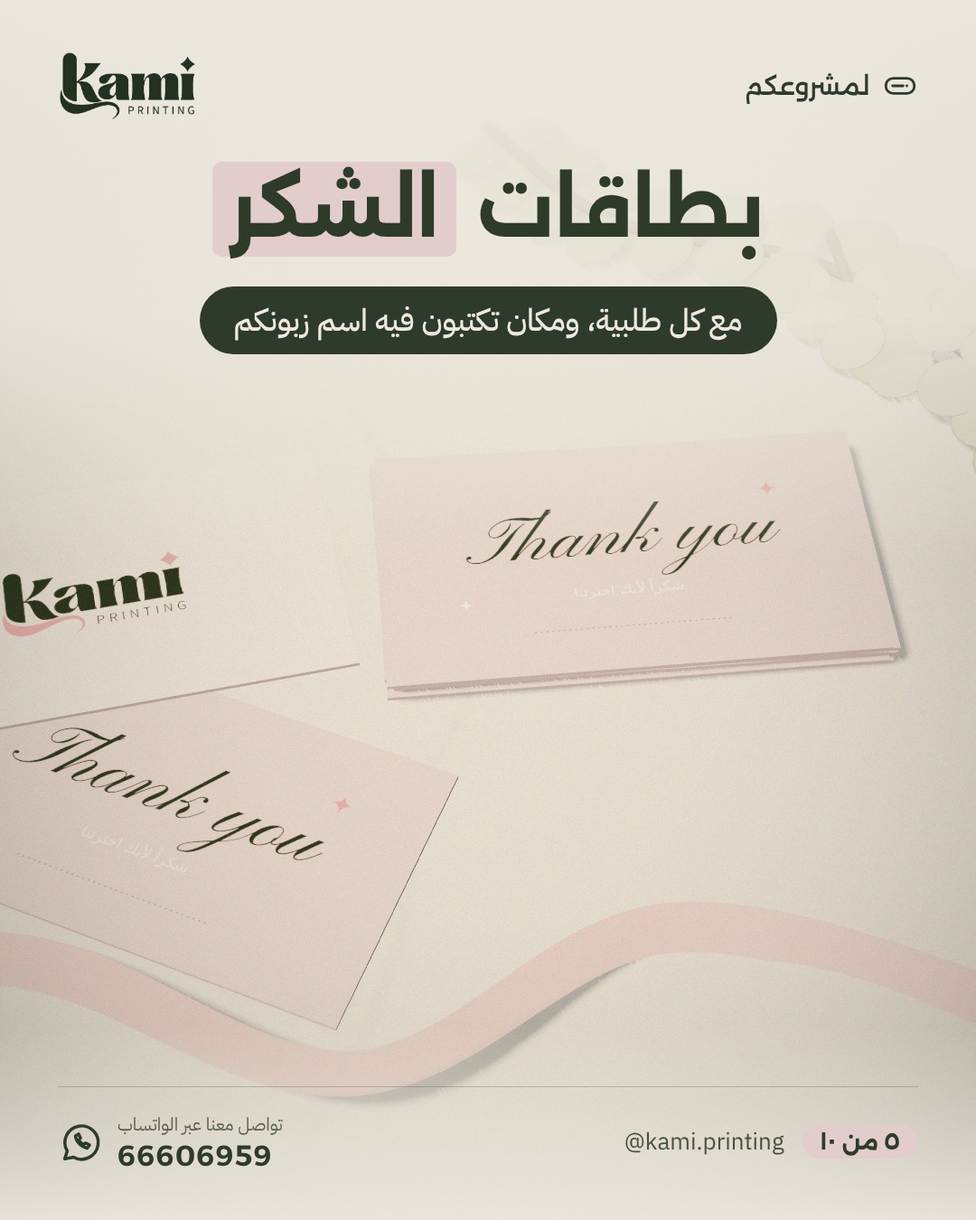
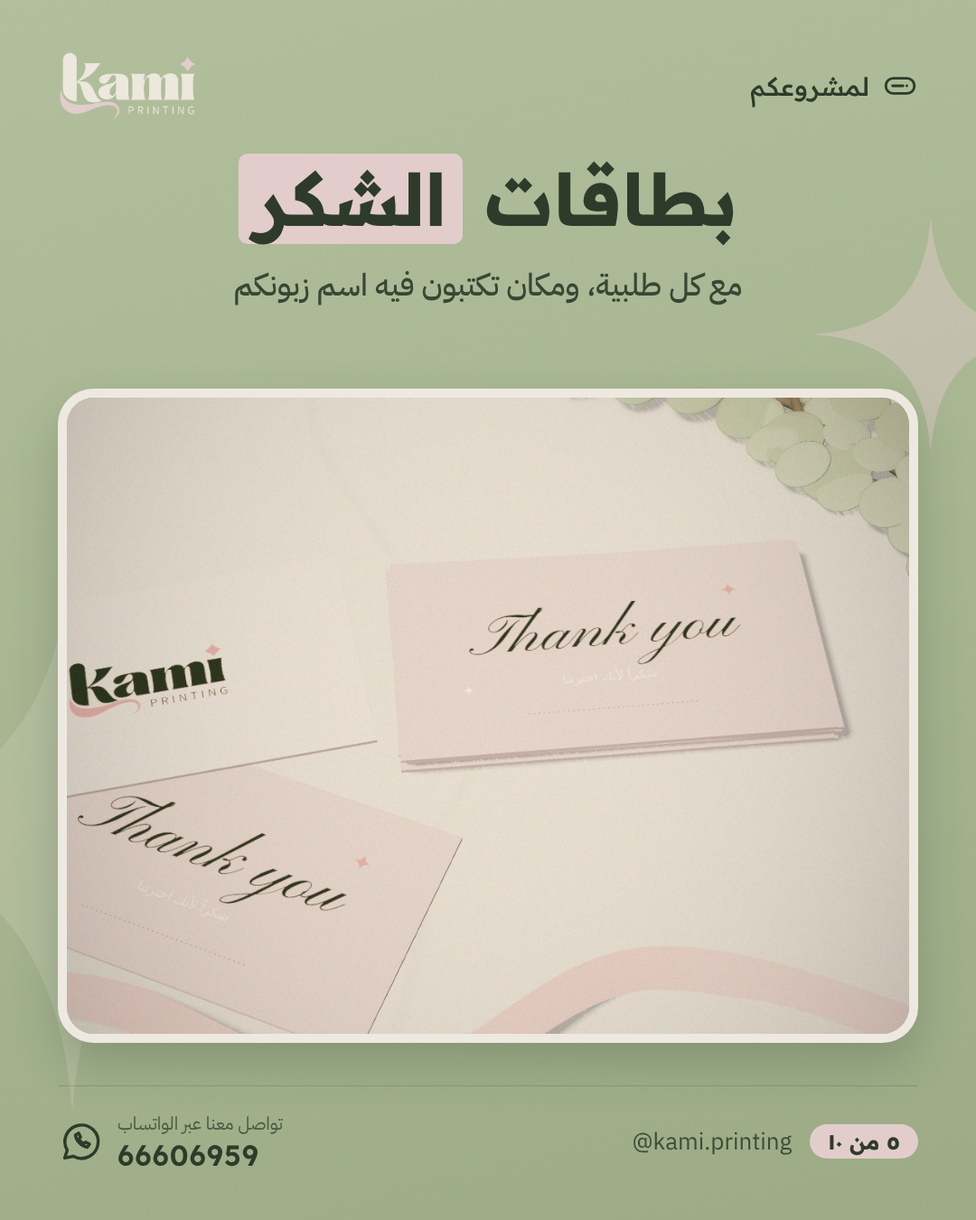
Restyle packaging carousel to the local design-index theme
Claude-Session: https://claude.ai/code/session_01EDga3H3JwjYFACotr7MsqH

diff --git a/templates/packaging-carousel.html b/templates/packaging-carousel.html
@@ -1,5 +1,5 @@
 <!doctype html><html lang="ar" dir="rtl"><head><meta charset="utf-8"><title>Kami Packaging Carousel</title>
-<link href="https://fonts.googleapis.com/css2?family=Alexandria:wght@400;500;600;700&family=IBM+Plex+Sans+Arabic:wght@400;500;600&display=swap" rel="stylesheet">
+<link href="https://fonts.googleapis.com/css2?family=Readex+Pro:wght@500;600;700&family=Alexandria:wght@400;500;600;700&family=IBM+Plex+Sans+Arabic:wght@400;500;600&display=swap" rel="stylesheet">
 <style>
 :root{--sage:#A7B591;--cream:#EDE9E0;--blush:#E2CDCC;--forest:#2E3B2A;--forest2:#384833;--line:rgba(46,59,42,.2)}
 *{box-sizing:border-box;margin:0;padding:0}
@@ -82,24 +82,19 @@ h2.ent{font-size:52px}
 .wai{width:64px;height:64px;fill:none;stroke:var(--cream);stroke-width:1.6;stroke-linecap:round;stroke-linejoin:round}
 .ctalogo{width:230px;margin-top:70px;opacity:.95}
 
-.ph{background:var(--img) center/cover}
-.ph header img{filter:brightness(0) saturate(100%) invert(19%) sepia(10%) saturate(1200%) hue-rotate(60deg) brightness(.9)}
-.ph .scrim{position:absolute;inset:0;pointer-events:none}
-.ph.top .scrim{background:linear-gradient(180deg,rgba(237,233,224,.96) 0%,rgba(237,233,224,.82) 26%,rgba(237,233,224,0) 46%),linear-gradient(0deg,rgba(237,233,224,.9) 0%,rgba(237,233,224,0) 16%)}
-.ph.bottom .scrim{background:linear-gradient(180deg,rgba(237,233,224,.85) 0%,rgba(237,233,224,0) 14%),linear-gradient(0deg,rgba(237,233,224,.97) 0%,rgba(237,233,224,.85) 28%,rgba(237,233,224,0) 48%)}
-.ph .txt{position:absolute;left:64px;right:64px;text-align:center;display:flex;flex-direction:column;align-items:center}
-.ph.top .txt{top:170px}.ph.bottom .txt{bottom:190px}
-.ph h2{font-size:86px;margin:0}
-.ph .cap{margin-top:22px;background:var(--forest);color:var(--cream);font-size:34px;font-weight:500;padding:12px 38px;border-radius:50px}
-.ph footer{border-top-color:rgba(46,59,42,.25)}
-.cov .tint{position:absolute;inset:0;background:linear-gradient(180deg,rgba(46,59,42,.55),rgba(46,59,42,.35) 45%,rgba(46,59,42,.7));}
-.cov header img{filter:none}.cov .chip{color:var(--cream)}.cov .chip svg{stroke:var(--cream)}
-.cov main{color:var(--cream)}.cov .t-cover{font-size:96px;color:var(--cream);text-shadow:0 4px 30px rgba(0,0,0,.25)}
-.cov .hl{color:var(--forest)}.cov .sub{color:var(--cream);opacity:1}
-.cov .spark{width:90px;height:90px;fill:var(--blush);margin-bottom:30px}
-.cov .swipe,.cov .swipe svg{color:var(--cream);stroke:var(--cream)}
-.cov footer{border-top-color:rgba(237,233,224,.4)}.cov footer,.cov .fw b{color:var(--cream)}.cov .fwi{stroke:var(--cream)}
-.cov .fr .h{color:var(--cream)}
+.post{background:linear-gradient(165deg,#B2BF9D 0%,#A7B591 50%,#9CAB86 100%)}
+h1,h2,.t-cover,.t-cta,.ftt,.kicker,.chip,.pill,.cnt,.fw b,.gh,.q,.sn,.wa span{font-family:'Readex Pro','IBM Plex Sans Arabic',sans-serif!important}
+h1,h2{font-weight:700}
+.ph .txt{position:absolute;left:64px;right:64px;top:168px;text-align:center;display:flex;flex-direction:column;align-items:center}
+.ph h2{font-size:80px;margin:0;line-height:1.3}
+.ph.cov h1{font-size:78px;margin:0;line-height:1.35}
+.ph .cap{margin-top:18px;color:#394634;font-size:34px;font-weight:500}
+.frame{position:absolute;left:64px;right:64px;top:430px;bottom:196px;border-radius:40px;overflow:hidden;
+  border:10px solid var(--cream);box-shadow:0 24px 50px rgba(46,59,42,.22)}
+.frame img{width:100%;height:100%;object-fit:cover;display:block}
+.cov .frame{top:520px;bottom:250px}
+.cov .swipe{position:absolute;left:64px;bottom:190px;display:flex;align-items:center;gap:6px;font-family:'Readex Pro';font-size:28px;color:var(--forest);direction:rtl}
+.cov .swipe svg{width:120px;height:50px;fill:none;stroke:var(--forest);stroke-width:3.5;stroke-linecap:round;stroke-linejoin:round}
 .stk .mas svg{width:520px}
 </style></head><body><svg width="0" height="0" style="position:absolute"><defs>
 <symbol id="star" viewBox="0 0 40 40"><path d="M20 0C21 13 27 19 40 20C27 21 21 27 20 40C19 27 13 21 0 20C13 19 19 13 20 0Z"/></symbol>
@@ -125,42 +120,39 @@ h2.ent{font-size:52px}
 <symbol id="truck" viewBox="0 0 24 24"><path d="M2 6h12v10H2zM14 9h4l3 3v4h-7"/><circle cx="6" cy="17.5" r="1.8"/><circle cx="17" cy="17.5" r="1.8"/></symbol>
 <symbol id="wa" viewBox="0 0 24 24"><path d="M3.5 20.5l1.3-4A8.5 8.5 0 1 1 8 19.6z"/><path d="M9 8.8c.3 2.8 2.6 5.4 6 6.2l1.2-1.6-2-1-1 .8c-1-.5-2-1.5-2.4-2.4l.8-1-1-2z"/></symbol>
 </defs></svg>
-<section class="post ph cov" id="pack-01" style="--img:url(photos/packaging/unbox.jpg)">
-  <div class="tint"></div><header><img src="../brand/logo-en-cream.png"><div class="chip"><svg class="ic"><use href="#tag"/></svg><span>لمشروعكم</span></div></header>
-  <main><svg class="spark"><use href="#star"/></svg>
-  <h1 class="t-cover">مشروعكم يحتاج<br><span class="hl">هالمطبوعات</span></h1>
-  <div class="sub">تفاصيل صغيرة.. تخلي طلبياتكم أفخم</div>
-  <div class="swipe">اسحبوا<svg viewBox="0 0 120 50"><path d="M110 10 C80 40 40 40 12 26"/><path d="M26 14 L10 26 L28 36"/></svg></div></main>
+<section class="post ph cov" id="pack-01"><svg class="wm"><use href="#star"/></svg><svg class="wm2"><use href="#star"/></svg><header><img src="../brand/logo-en-cream.png"><div class="chip"><svg class="ic"><use href="#tag"/></svg><span>لمشروعكم</span></div></header>
+  <div class="txt"><h1>مشروعكم يحتاج<br><span class="hl">هالمطبوعات</span></h1><div class="cap">تفاصيل صغيرة.. تخلي طلبياتكم أفخم</div></div>
+  <div class="frame"><img src="photos/packaging/unbox-wide.jpg" style="object-position:50% 50%"></div>
+  <div class="swipe">اسحبوا<svg viewBox="0 0 120 50"><path d="M110 10 C80 40 40 40 12 26"/><path d="M26 14 L10 26 L28 36"/></svg></div>
   <footer><div class="fw"><svg class="fwi"><use href="#wa"/></svg><div><small>تواصل معنا عبر الواتساب</small><b>66606959</b></div></div>
-  <div class="fr"><span class="h">@kami.printing</span><span class="cnt">١ من ١٠</span></div></footer></section><section class="post stk" id="pack-02">
-  <svg class="wm"><use href="#star"/></svg><svg class="wm2"><use href="#star"/></svg><header><img src="../brand/logo-en-cream.png"><div class="chip"><svg class="ic"><use href="#tag"/></svg><span>لمشروعكم</span></div></header>
+  <div class="fr"><span class="h">@kami.printing</span><span class="cnt">١ من ١٠</span></div></footer></section><section class="post stk" id="pack-02"><svg class="wm"><use href="#star"/></svg><svg class="wm2"><use href="#star"/></svg><header><img src="../brand/logo-en-cream.png"><div class="chip"><svg class="ic"><use href="#tag"/></svg><span>لمشروعكم</span></div></header>
   <main><div class="mas"><svg class="mascot" viewBox="-80 0 420 360"><ellipse cx="150" cy="330" rx="88" ry="10" fill="#2E3B2A" opacity=".14"/><path d="M124 292 L120 318" fill="none" stroke="#2E3B2A" stroke-width="9" stroke-linecap="round"/><path d="M176 292 L180 318" fill="none" stroke="#2E3B2A" stroke-width="9" stroke-linecap="round"/><ellipse cx="114" cy="321" rx="17" ry="9" fill="#2E3B2A"/><ellipse cx="186" cy="321" rx="17" ry="9" fill="#2E3B2A"/><path d="M70 112 L112 62 H188 L230 112 V280 Q230 296 214 296 H86 Q70 296 70 280 Z" fill="#F6F3EC" stroke="#2E3B2A" stroke-width="8" stroke-linejoin="round"/><path d="M70 112 L112 62 V98 Q112 112 98 112 Z" fill="#E2CDCC" stroke="#2E3B2A" stroke-width="7" stroke-linejoin="round"/><path d="M230 112 L188 62 V98 Q188 112 202 112 Z" fill="#E2CDCC" stroke="#2E3B2A" stroke-width="7" stroke-linejoin="round"/><path d="M74 250 C118 282 170 226 226 238" fill="none" stroke="#E2CDCC" stroke-width="15" stroke-linecap="round"/><ellipse cx="122" cy="172" rx="10" ry="12" fill="#2E3B2A"/><ellipse cx="178" cy="172" rx="10" ry="12" fill="#2E3B2A"/><circle cx="125" cy="167" r="3.5" fill="#fff"/><circle cx="181" cy="167" r="3.5" fill="#fff"/><ellipse cx="104" cy="198" rx="13" ry="8" fill="#D3959B" opacity=".55"/><ellipse cx="196" cy="198" rx="13" ry="8" fill="#D3959B" opacity=".55"/><path d="M134 196 Q150 220 166 196 Z" fill="#2E3B2A" stroke="#2E3B2A" stroke-width="5" stroke-linejoin="round"/><path d="M142 206 Q150 214 158 206" fill="#D3959B"/><rect x="104" y="228" width="92" height="66" rx="6" fill="#E2CDCC" stroke="#2E3B2A" stroke-width="7"/><rect x="98" y="214" width="104" height="20" rx="5" fill="#F6F3EC" stroke="#2E3B2A" stroke-width="7"/><path d="M150 214 V294" stroke="#A7B591" stroke-width="12"/><path d="M150 214 c-14 -26 -40 -18 -26 -2 M150 214 c14 -26 40 -18 26 -2" fill="none" stroke="#2E3B2A" stroke-width="6" stroke-linecap="round"/><path d="M74 215 C80 236 90 248 100 252" fill="none" stroke="#2E3B2A" stroke-width="9" stroke-linecap="round"/><circle cx="102" cy="254" r="12" fill="#F6F3EC" stroke="#2E3B2A" stroke-width="7"/><path d="M226 215 C220 236 210 248 200 252" fill="none" stroke="#2E3B2A" stroke-width="9" stroke-linecap="round"/><circle cx="198" cy="254" r="12" fill="#F6F3EC" stroke="#2E3B2A" stroke-width="7"/><path d="M0 -20C1 -7 7 -1 20 0C7 1 1 7 0 20C-1 7 -7 1 -20 0C-7 -1 -1 -7 0 -20Z" transform="translate(262 46) scale(1.25)" fill="#D3959B"/><path d="M0 -20C1 -7 7 -1 20 0C7 1 1 7 0 20C-1 7 -7 1 -20 0C-7 -1 -1 -7 0 -20Z" transform="translate(36 92) scale(0.7)" fill="#A7B591"/></svg></div>
   <h1 class="t-cover">أول شي يشوفه زبونكم..<br><span class="hl">التغليف</span></h1>
   <div class="sub">قبل لا يجرّب منتجكم، يحكم عليه من شكله</div></main>
   <footer><div class="fw"><svg class="fwi"><use href="#wa"/></svg><div><small>تواصل معنا عبر الواتساب</small><b>66606959</b></div></div>
-  <div class="fr"><span class="h">@kami.printing</span><span class="cnt">٢ من ١٠</span></div></footer></section><section class="post ph top" id="pack-03" style="--img:url(photos/packaging/logo-stickers.jpg)">
-  <div class="scrim"></div><header><img src="../brand/logo-en-cream.png"><div class="chip"><svg class="ic"><use href="#tag"/></svg><span>لمشروعكم</span></div></header>
+  <div class="fr"><span class="h">@kami.printing</span><span class="cnt">٢ من ١٠</span></div></footer></section><section class="post ph" id="pack-03"><svg class="wm"><use href="#star"/></svg><svg class="wm2"><use href="#star"/></svg><header><img src="../brand/logo-en-cream.png"><div class="chip"><svg class="ic"><use href="#tag"/></svg><span>لمشروعكم</span></div></header>
   <div class="txt"><h2>ستيكرات <span class="hl">الشعار</span></h2><div class="cap">بقص احترافي، تختمون فيها كل كيس وعلبة</div></div>
+  <div class="frame"><img src="photos/packaging/logo-stickers-wide.jpg" style="object-position:50% 60%"></div>
   <footer><div class="fw"><svg class="fwi"><use href="#wa"/></svg><div><small>تواصل معنا عبر الواتساب</small><b>66606959</b></div></div>
-  <div class="fr"><span class="h">@kami.printing</span><span class="cnt">٣ من ١٠</span></div></footer></section><section class="post ph bottom" id="pack-04" style="--img:url(photos/packaging/uv-stickers.jpg)">
-  <div class="scrim"></div><header><img src="../brand/logo-en-cream.png"><div class="chip"><svg class="ic"><use href="#tag"/></svg><span>لمشروعكم</span></div></header>
+  <div class="fr"><span class="h">@kami.printing</span><span class="cnt">٣ من ١٠</span></div></footer></section><section class="post ph" id="pack-04"><svg class="wm"><use href="#star"/></svg><svg class="wm2"><use href="#star"/></svg><header><img src="../brand/logo-en-cream.png"><div class="chip"><svg class="ic"><use href="#tag"/></svg><span>لمشروعكم</span></div></header>
   <div class="txt"><h2>ستيكرات <span class="hl">UV</span></h2><div class="cap">لمعة بارزة تعطي منتجكم طابع فخم</div></div>
+  <div class="frame"><img src="photos/packaging/uv-stickers-wide.jpg" style="object-position:50% 55%"></div>
   <footer><div class="fw"><svg class="fwi"><use href="#wa"/></svg><div><small>تواصل معنا عبر الواتساب</small><b>66606959</b></div></div>
-  <div class="fr"><span class="h">@kami.printing</span><span class="cnt">٤ من ١٠</span></div></footer></section><section class="post ph top" id="pack-05" style="--img:url(photos/packaging/thank-cards.jpg)">
-  <div class="scrim"></div><header><img src="../brand/logo-en-cream.png"><div class="chip"><svg class="ic"><use href="#tag"/></svg><span>لمشروعكم</span></div></header>
+  <div class="fr"><span class="h">@kami.printing</span><span class="cnt">٤ من ١٠</span></div></footer></section><section class="post ph" id="pack-05"><svg class="wm"><use href="#star"/></svg><svg class="wm2"><use href="#star"/></svg><header><img src="../brand/logo-en-cream.png"><div class="chip"><svg class="ic"><use href="#tag"/></svg><span>لمشروعكم</span></div></header>
   <div class="txt"><h2>بطاقات <span class="hl">الشكر</span></h2><div class="cap">مع كل طلبية، ومكان تكتبون فيه اسم زبونكم</div></div>
+  <div class="frame"><img src="photos/packaging/thank-cards.jpg" style="object-position:50% 55%"></div>
   <footer><div class="fw"><svg class="fwi"><use href="#wa"/></svg><div><small>تواصل معنا عبر الواتساب</small><b>66606959</b></div></div>
-  <div class="fr"><span class="h">@kami.printing</span><span class="cnt">٥ من ١٠</span></div></footer></section><section class="post ph top" id="pack-06" style="--img:url(photos/packaging/business-cards.jpg)">
-  <div class="scrim"></div><header><img src="../brand/logo-en-cream.png"><div class="chip"><svg class="ic"><use href="#tag"/></svg><span>لمشروعكم</span></div></header>
-  <div class="txt"><h2><span class="hl">بزنس كارد</span></h2><div class="cap">حساباتكم ورقمكم في يد زبونكم دايماً</div></div>
+  <div class="fr"><span class="h">@kami.printing</span><span class="cnt">٥ من ١٠</span></div></footer></section><section class="post ph" id="pack-06"><svg class="wm"><use href="#star"/></svg><svg class="wm2"><use href="#star"/></svg><header><img src="../brand/logo-en-cream.png"><div class="chip"><svg class="ic"><use href="#tag"/></svg><span>لمشروعكم</span></div></header>
+  <div class="txt"><h2><span class="hl">بزنس كارد</span></h2><div class="cap">حساباتكم ورقمكم بيد زبونكم دايماً</div></div>
+  <div class="frame"><img src="photos/packaging/business-cards.jpg" style="object-position:50% 50%"></div>
   <footer><div class="fw"><svg class="fwi"><use href="#wa"/></svg><div><small>تواصل معنا عبر الواتساب</small><b>66606959</b></div></div>
-  <div class="fr"><span class="h">@kami.printing</span><span class="cnt">٦ من ١٠</span></div></footer></section><section class="post ph bottom" id="pack-07" style="--img:url(photos/packaging/cotton-labels.jpg)">
-  <div class="scrim"></div><header><img src="../brand/logo-en-cream.png"><div class="chip"><svg class="ic"><use href="#tag"/></svg><span>لمشروعكم</span></div></header>
+  <div class="fr"><span class="h">@kami.printing</span><span class="cnt">٦ من ١٠</span></div></footer></section><section class="post ph" id="pack-07"><svg class="wm"><use href="#star"/></svg><svg class="wm2"><use href="#star"/></svg><header><img src="../brand/logo-en-cream.png"><div class="chip"><svg class="ic"><use href="#tag"/></svg><span>لمشروعكم</span></div></header>
   <div class="txt"><h2>قصاصات <span class="hl">قطنية</span></h2><div class="cap">لمسة أنيقة لمشاريع الملابس والإكسسوارات</div></div>
+  <div class="frame"><img src="photos/packaging/cotton-labels.jpg" style="object-position:50% 40%"></div>
   <footer><div class="fw"><svg class="fwi"><use href="#wa"/></svg><div><small>تواصل معنا عبر الواتساب</small><b>66606959</b></div></div>
-  <div class="fr"><span class="h">@kami.printing</span><span class="cnt">٧ من ١٠</span></div></footer></section><section class="post ph top" id="pack-08" style="--img:url(photos/packaging/folding-boxes.jpg)">
-  <div class="scrim"></div><header><img src="../brand/logo-en-cream.png"><div class="chip"><svg class="ic"><use href="#tag"/></svg><span>لمشروعكم</span></div></header>
+  <div class="fr"><span class="h">@kami.printing</span><span class="cnt">٧ من ١٠</span></div></footer></section><section class="post ph" id="pack-08"><svg class="wm"><use href="#star"/></svg><svg class="wm2"><use href="#star"/></svg><header><img src="../brand/logo-en-cream.png"><div class="chip"><svg class="ic"><use href="#tag"/></svg><span>لمشروعكم</span></div></header>
   <div class="txt"><h2>علب <span class="hl">مطوية</span></h2><div class="cap">تغليف يعطي كل منتج تبيعونه طابع فخم</div></div>
+  <div class="frame"><img src="photos/packaging/folding-boxes.jpg" style="object-position:50% 50%"></div>
   <footer><div class="fw"><svg class="fwi"><use href="#wa"/></svg><div><small>تواصل معنا عبر الواتساب</small><b>66606959</b></div></div>
   <div class="fr"><span class="h">@kami.printing</span><span class="cnt">٨ من ١٠</span></div></footer></section><section class="post grid" id="pack-09">
   <svg class="wm"><use href="#star"/></svg><svg class="wm2"><use href="#star"/></svg>

diff --git a/templates/packaging_carousel.py b/templates/packaging_carousel.py
@@ -16,14 +16,18 @@ os.chdir(cwd)
 hl, icon, ar, slide, mascot = ns['hl'], ns['icon'], ns['ar'], ns['slide'], ns['mascot']
 TAG, TAGIC = 'لمشروعكم', 'tag'
 
-# (photo, title, sub, text position: top|bottom)
+# Theme from the local design index (فهرس-التصاميم.md): sage gradient #B2BF9D -> #9CAB86 with two
+# four-point stars, Readex Pro 700 headings, IBM Plex Sans Arabic body, #2E3B2A text, #394634 secondary,
+# cream #EDE9E0, blush highlight #E2CDCC. Logo top-left, section title top-right, footer with page count.
+# Note from the index: avoid «في» in Readex headings (the ي loses its dots).
+# (photo file, title, sub, object-position)
 PHOTOS = [
-    ('logo-stickers', 'ستيكرات [[الشعار]]', 'بقص احترافي، تختمون فيها كل كيس وعلبة', 'top'),
-    ('uv-stickers', 'ستيكرات [[UV]]', 'لمعة بارزة تعطي منتجكم طابع فخم', 'bottom'),
-    ('thank-cards', 'بطاقات [[الشكر]]', 'مع كل طلبية، ومكان تكتبون فيه اسم زبونكم', 'top'),
-    ('business-cards', '[[بزنس كارد]]', 'حساباتكم ورقمكم في يد زبونكم دايماً', 'top'),
-    ('cotton-labels', 'قصاصات [[قطنية]]', 'لمسة أنيقة لمشاريع الملابس والإكسسوارات', 'bottom'),
-    ('folding-boxes', 'علب [[مطوية]]', 'تغليف يعطي كل منتج تبيعونه طابع فخم', 'top'),
+    ('logo-stickers-wide', 'ستيكرات [[الشعار]]', 'بقص احترافي، تختمون فيها كل كيس وعلبة', '50% 60%'),
+    ('uv-stickers-wide', 'ستيكرات [[UV]]', 'لمعة بارزة تعطي منتجكم طابع فخم', '50% 55%'),
+    ('thank-cards', 'بطاقات [[الشكر]]', 'مع كل طلبية، ومكان تكتبون فيه اسم زبونكم', '50% 55%'),
+    ('business-cards', '[[بزنس كارد]]', 'حساباتكم ورقمكم بيد زبونكم دايماً', '50% 50%'),
+    ('cotton-labels', 'قصاصات [[قطنية]]', 'لمسة أنيقة لمشاريع الملابس والإكسسوارات', '50% 40%'),
+    ('folding-boxes', 'علب [[مطوية]]', 'تغليف يعطي كل منتج تبيعونه طابع فخم', '50% 50%'),
 ]
 N = 3 + len(PHOTOS) + 1
 
@@ -34,48 +38,45 @@ def foot(i):
     return f'''<footer><div class="fw">{icon("wa", "fwi")}<div><small>تواصل معنا عبر الواتساب</small><b>66606959</b></div></div>
   <div class="fr"><span class="h">@kami.printing</span><span class="cnt">{ar(i)} من {ar(N)}</span></div></footer>'''
 
+STARS = '<svg class="wm"><use href="#star"/></svg><svg class="wm2"><use href="#star"/></svg>'
+
+def frame(src, pos):
+    return f'<div class="frame"><img src="photos/packaging/{src}.jpg" style="object-position:{pos}"></div>'
+
 def cover(i):
-    return f'''<section class="post ph cov" id="pack-{i:02d}" style="--img:url(photos/packaging/unbox.jpg)">
-  <div class="tint"></div>{head()}
-  <main><svg class="spark"><use href="#star"/></svg>
-  <h1 class="t-cover">مشروعكم يحتاج<br>[[هالمطبوعات]]</h1>
-  <div class="sub">تفاصيل صغيرة.. تخلي طلبياتكم أفخم</div>
-  <div class="swipe">اسحبوا<svg viewBox="0 0 120 50"><path d="M110 10 C80 40 40 40 12 26"/><path d="M26 14 L10 26 L28 36"/></svg></div></main>
-  {foot(i)}</section>'''.replace('[[هالمطبوعات]]', '<span class="hl">هالمطبوعات</span>')
+    return f'''<section class="post ph cov" id="pack-{i:02d}">{STARS}{head()}
+  <div class="txt"><h1>مشروعكم يحتاج<br>{hl("[[هالمطبوعات]]")}</h1><div class="cap">تفاصيل صغيرة.. تخلي طلبياتكم أفخم</div></div>
+  {frame("unbox-wide", "50% 50%")}
+  <div class="swipe">اسحبوا<svg viewBox="0 0 120 50"><path d="M110 10 C80 40 40 40 12 26"/><path d="M26 14 L10 26 L28 36"/></svg></div>
+  {foot(i)}</section>'''
 
 def stake(i):
-    return f'''<section class="post stk" id="pack-{i:02d}">
-  <svg class="wm"><use href="#star"/></svg><svg class="wm2"><use href="#star"/></svg>{head()}
+    return f'''<section class="post stk" id="pack-{i:02d}">{STARS}{head()}
   <main><div class="mas">{mascot("gift", "open")}</div>
   <h1 class="t-cover">أول شي يشوفه زبونكم..<br>{hl("[[التغليف]]")}</h1>
   <div class="sub">قبل لا يجرّب منتجكم، يحكم عليه من شكله</div></main>
   {foot(i)}</section>'''
 
 def photo(i, name, title, sub, pos):
-    return f'''<section class="post ph {pos}" id="pack-{i:02d}" style="--img:url(photos/packaging/{name}.jpg)">
-  <div class="scrim"></div>{head()}
+    return f'''<section class="post ph" id="pack-{i:02d}">{STARS}{head()}
   <div class="txt"><h2>{hl(title)}</h2><div class="cap">{sub}</div></div>
+  {frame(name, pos)}
   {foot(i)}</section>'''
 
 CSS = ns['CSS'] + '''
-.ph{background:var(--img) center/cover}
-.ph header img{filter:brightness(0) saturate(100%) invert(19%) sepia(10%) saturate(1200%) hue-rotate(60deg) brightness(.9)}
-.ph .scrim{position:absolute;inset:0;pointer-events:none}
-.ph.top .scrim{background:linear-gradient(180deg,rgba(237,233,224,.96) 0%,rgba(237,233,224,.82) 26%,rgba(237,233,224,0) 46%),linear-gradient(0deg,rgba(237,233,224,.9) 0%,rgba(237,233,224,0) 16%)}
-.ph.bottom .scrim{background:linear-gradient(180deg,rgba(237,233,224,.85) 0%,rgba(237,233,224,0) 14%),linear-gradient(0deg,rgba(237,233,224,.97) 0%,rgba(237,233,224,.85) 28%,rgba(237,233,224,0) 48%)}
-.ph .txt{position:absolute;left:64px;right:64px;text-align:center;display:flex;flex-direction:column;align-items:center}
-.ph.top .txt{top:170px}.ph.bottom .txt{bottom:190px}
-.ph h2{font-size:86px;margin:0}
-.ph .cap{margin-top:22px;background:var(--forest);color:var(--cream);font-size:34px;font-weight:500;padding:12px 38px;border-radius:50px}
-.ph footer{border-top-color:rgba(46,59,42,.25)}
-.cov .tint{position:absolute;inset:0;background:linear-gradient(180deg,rgba(46,59,42,.55),rgba(46,59,42,.35) 45%,rgba(46,59,42,.7));}
-.cov header img{filter:none}.cov .chip{color:var(--cream)}.cov .chip svg{stroke:var(--cream)}
-.cov main{color:var(--cream)}.cov .t-cover{font-size:96px;color:var(--cream);text-shadow:0 4px 30px rgba(0,0,0,.25)}
-.cov .hl{color:var(--forest)}.cov .sub{color:var(--cream);opacity:1}
-.cov .spark{width:90px;height:90px;fill:var(--blush);margin-bottom:30px}
-.cov .swipe,.cov .swipe svg{color:var(--cream);stroke:var(--cream)}
-.cov footer{border-top-color:rgba(237,233,224,.4)}.cov footer,.cov .fw b{color:var(--cream)}.cov .fwi{stroke:var(--cream)}
-.cov .fr .h{color:var(--cream)}
+.post{background:linear-gradient(165deg,#B2BF9D 0%,#A7B591 50%,#9CAB86 100%)}
+h1,h2,.t-cover,.t-cta,.ftt,.kicker,.chip,.pill,.cnt,.fw b,.gh,.q,.sn,.wa span{font-family:'Readex Pro','IBM Plex Sans Arabic',sans-serif!important}
+h1,h2{font-weight:700}
+.ph .txt{position:absolute;left:64px;right:64px;top:168px;text-align:center;display:flex;flex-direction:column;align-items:center}
+.ph h2{font-size:80px;margin:0;line-height:1.3}
+.ph.cov h1{font-size:78px;margin:0;line-height:1.35}
+.ph .cap{margin-top:18px;color:#394634;font-size:34px;font-weight:500}
+.frame{position:absolute;left:64px;right:64px;top:430px;bottom:196px;border-radius:40px;overflow:hidden;
+  border:10px solid var(--cream);box-shadow:0 24px 50px rgba(46,59,42,.22)}
+.frame img{width:100%;height:100%;object-fit:cover;display:block}
+.cov .frame{top:520px;bottom:250px}
+.cov .swipe{position:absolute;left:64px;bottom:190px;display:flex;align-items:center;gap:6px;font-family:'Readex Pro';font-size:28px;color:var(--forest);direction:rtl}
+.cov .swipe svg{width:120px;height:50px;fill:none;stroke:var(--forest);stroke-width:3.5;stroke-linecap:round;stroke-linejoin:round}
 .stk .mas svg{width:520px}
 '''
 
@@ -91,7 +92,7 @@ def main():
     out.append(slide('school', TAG, TAGIC, {'type': 'cta', 'title': 'احفظوا البوست..<br>[[وأرسلوا لنا شعاركم]]',
         'sub': 'ونجهز لكم مطبوعات مشروعكم'}, i + 1, N).replace('id="school-', 'id="pack-'))
     page = f'''<!doctype html><html lang="ar" dir="rtl"><head><meta charset="utf-8"><title>Kami Packaging Carousel</title>
-<link href="https://fonts.googleapis.com/css2?family=Alexandria:wght@400;500;600;700&family=IBM+Plex+Sans+Arabic:wght@400;500;600&display=swap" rel="stylesheet">
+<link href="https://fonts.googleapis.com/css2?family=Readex+Pro:wght@500;600;700&family=Alexandria:wght@400;500;600;700&family=IBM+Plex+Sans+Arabic:wght@400;500;600&display=swap" rel="stylesheet">
 <style>{CSS}</style></head><body><svg width="0" height="0" style="position:absolute">{ns["defs"]}</svg>
 {''.join(out)}</body></html>'''
     open(os.path.join(HERE, 'packaging-carousel.html'), 'w', encoding='utf-8').write(page)

diff --git a/instagram/content/packaging-carousel.md b/instagram/content/packaging-carousel.md
@@ -36,3 +36,6 @@
 - المصدر: `templates/packaging_carousel.py` ← `templates/packaging-carousel.html`، الصور في `templates/photos/packaging/`
 - الصور: ستيكرات الشعار وUV وصورة الغلاف مولّدة بالذكاء الاصطناعي (ElevenLabs، فيها كلمة kami مو الشعار الحقيقي بالضبط؛ ستيكر الغلاف مبدّل بالشعار الحقيقي). بطاقات الشكر والبزنس كارد والقصاصات والعلب رندر ثلاثي الأبعاد بالشعار الحقيقي.
 - الحد اليومي المجاني لتوليد الصور في ElevenLabs خلص؛ نقدر نبدّل صور الرندر بصور مولّدة أكثر واقعية لاحقاً.
+
+## تعديل 1 (2026-11-17): ثيم المحادثة المحلية
+أخذنا الثيم من `فهرس-التصاميم.md` في محادثة «تصاميم» على جهازه: خلفية تدرج أخضر #B2BF9D إلى #9CAB86 مع نجمتين، عناوين Readex Pro 700، نص IBM Plex Sans Arabic، الكلمة المميزة على وردي #E2CDCC. الصور صارت داخل إطار كريمي بدل ما تغطي السلايد. (ملاحظة الفهرس: لا نستخدم «في» في عناوين Readex.)
